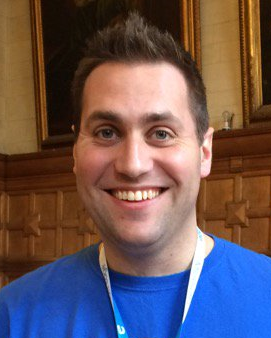
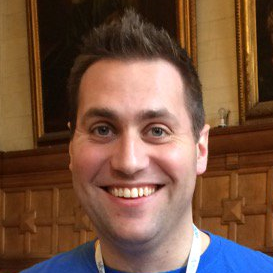
Added resources

diff --git a/MartinKMe/wwwroot/css/site.min.css b/MartinKMe/wwwroot/css/site.min.css
@@ -1,1 +1,1 @@
-body{padding-top:50px;font-family:Lato,sans-serif;font-size:14pt;background-color:#d3d3d3}a{color:#333;text-decoration:underline}a:hover{color:#ff8c00}table{font-size:1.5rem}.btn{border-radius:0;border:0}h4{font-size:16pt}.btn:focus,.btn:hover{background-color:#ff8c00;color:#fff}input,select,textarea{max-width:280px}@font-face{font-family:blackoutmidnight;src:url(fonts/blackout-midnight-webfont.eot);src:url(fonts/blackout-midnight-webfont.eot?#iefix)format('embedded-opentype'),url(fonts/blackout-midnight-webfont.woff2)format('woff2'),url(fonts/blackout-midnight-webfont.woff)format('woff'),url(fonts/blackout-midnight-webfont.ttf)format('truetype'),url(fonts/blackout-midnight-webfont.svg#blackoutmidnight)format('svg');font-weight:400;font-style:normal}.jumbotron{color:#FE940D;background:linear-gradient(rgba(0,0,0,.5),rgba(0,0,0,.5)),url(../images/banner-wide.jpg);background-position:center top;margin-bottom:0}.jumbotron h1{font-weight:900}.jumbotron p{font-weight:700;font-size:2rem}.jumbotron-speaking{background:linear-gradient(rgba(0,0,0,.5),rgba(0,0,0,.5)),url(../images/banner-speaking.jpg)}.navbar-inverse .navbar-nav>li>a:focus,.navbar-inverse .navbar-nav>li>a:hover{color:#ff8c00}.navbar-inverse .navbar-nav>li>a,.navbar>.container .navbar-brand,.navbar>.container-fluid .navbar-brand{text-decoration:none}#home-intro{font-size:18pt}.home-container{margin-top:0;padding-top:20px;padding-bottom:20px}#home-speaking-container{background-color:#3AEAC8}#home-resources-container{background-color:#00D4E7}#home-blog-container{background-color:#008E9A}footer{background-color:grey;margin-bottom:0;padding-top:30px;padding-bottom:50px}.footer-icon{margin-right:20px}.profile-photo{max-width:320px}
+body{padding-top:50px;font-family:Lato,sans-serif;font-size:14pt;background-color:#d3d3d3}a{color:#333;text-decoration:underline}a:hover{color:#ff8c00}.btn{border-radius:0;border:0}h4{font-size:16pt}.btn:focus,.btn:hover{background-color:#ff8c00;color:#fff}@font-face{font-family:blackoutmidnight;src:url(fonts/blackout-midnight-webfont.eot);src:url(fonts/blackout-midnight-webfont.eot?#iefix)format('embedded-opentype'),url(fonts/blackout-midnight-webfont.woff2)format('woff2'),url(fonts/blackout-midnight-webfont.woff)format('woff'),url(fonts/blackout-midnight-webfont.ttf)format('truetype'),url(fonts/blackout-midnight-webfont.svg#blackoutmidnight)format('svg');font-weight:400;font-style:normal}.jumbotron{color:#FE940D;background-image:linear-gradient(rgba(0,0,0,.9),rgba(0,0,0,.4)),url(../images/banner-home.jpg);background-position:center center;margin-bottom:0;background-size:cover;background-repeat:no-repeat}.jumbotron h1{font-weight:900}.jumbotron p{font-weight:700;font-size:2rem}.jumbotron-speaking{background-image:linear-gradient(rgba(0,0,0,.5),rgba(0,0,0,.1)),url(../images/banner-speaking.jpg)}.jumbotron-resources{background-image:linear-gradient(rgba(0,0,0,.9),rgba(0,0,0,.5)),url(../images/banner-resources.jpg)}.jumbotron-blog{background-image:linear-gradient(rgba(0,0,0,.7),rgba(0,0,0,.3)),url(../images/banner-blog.jpg)}.navbar-inverse .navbar-nav>li>a:focus,.navbar-inverse .navbar-nav>li>a:hover{color:#ff8c00}.navbar-inverse .navbar-nav>li>a,.navbar>.container .navbar-brand,.navbar>.container-fluid .navbar-brand{text-decoration:none}#home-intro{font-size:18pt}.container-fluid{margin-top:0;padding-top:20px;padding-bottom:20px}.green-background{background-color:#3AEAC8}.blue-background{background-color:#0DABFE}.lightblue-background{background-color:#00D4E7}.teal-background{background-color:#008E9A}.copper-background{background-color:#CB760A}.mustard-background{background-color:#CBA31F}.darkblue-background{background-color:#0074B1;color:#fff}footer{background-color:grey;margin-bottom:0;padding-top:30px;padding-bottom:50px}.footer-icon{margin-right:20px}.profile-photo{max-width:200px}

diff --git a/MartinKMe/wwwroot/css/site.css b/MartinKMe/wwwroot/css/site.css
@@ -10,13 +10,9 @@ a {
     text-decoration: underline;
 }
 
-a:hover {
-    color: darkorange;
-}
-
-table {
-    font-size:1.5rem;
-}
+    a:hover {
+        color: darkorange;
+    }
 
 .btn {
     border-radius: 0px;
@@ -32,21 +28,10 @@ h4 {
     color: white;
 }
 
-/* Set widths on the form inputs since otherwise they're 100% wide */
-input,
-select,
-textarea {
-    max-width: 280px;
-}
-
 @font-face {
     font-family: 'blackoutmidnight';
     src: url('fonts/blackout-midnight-webfont.eot');
-    src: url('fonts/blackout-midnight-webfont.eot?#iefix') format('embedded-opentype'),
-         url('fonts/blackout-midnight-webfont.woff2') format('woff2'),
-         url('fonts/blackout-midnight-webfont.woff') format('woff'),
-         url('fonts/blackout-midnight-webfont.ttf') format('truetype'),
-         url('fonts/blackout-midnight-webfont.svg#blackoutmidnight') format('svg');
+    src: url('fonts/blackout-midnight-webfont.eot?#iefix') format('embedded-opentype'), url('fonts/blackout-midnight-webfont.woff2') format('woff2'), url('fonts/blackout-midnight-webfont.woff') format('woff'), url('fonts/blackout-midnight-webfont.ttf') format('truetype'), url('fonts/blackout-midnight-webfont.svg#blackoutmidnight') format('svg');
     font-weight: normal;
     font-style: normal;
 }
@@ -54,13 +39,14 @@ textarea {
 
 .jumbotron {
     color: #FE940D;
-    background: linear-gradient(rgba(0, 0, 0, 0.5), rgba(0, 0, 0, 0.5)), url('../images/banner-wide.jpg');
-    background-position: center top;
+    background-image: linear-gradient(rgba(0, 0, 0, 0.9), rgba(0, 0, 0, 0.4)), url('../images/banner-home.jpg');
+    background-position: center center;
     margin-bottom: 0px;
+    background-size: cover;
+    background-repeat: no-repeat;
 }
 
     .jumbotron h1 {
-        /*font-family: 'Blackout Midnight', sans-serif;*/
         font-weight: 900;
     }
 
@@ -70,7 +56,15 @@ textarea {
     }
 
 .jumbotron-speaking {
-    background: linear-gradient(rgba(0, 0, 0, 0.5), rgba(0, 0, 0, 0.5)), url('../images/banner-speaking.jpg');
+    background-image: linear-gradient(rgba(0, 0, 0, 0.5), rgba(0, 0, 0, 0.1)), url('../images/banner-speaking.jpg');
+}
+
+.jumbotron-resources {
+    background-image: linear-gradient(rgba(0, 0, 0, 0.9), rgba(0, 0, 0, 0.5)), url('../images/banner-resources.jpg');
+}
+
+.jumbotron-blog {
+    background-image: linear-gradient(rgba(0, 0, 0, 0.7), rgba(0, 0, 0, 0.3)), url('../images/banner-blog.jpg');
 }
 
 .navbar-inverse .navbar-nav > li > a:focus, .navbar-inverse .navbar-nav > li > a:hover {
@@ -78,7 +72,7 @@ textarea {
 }
 
 .navbar > .container .navbar-brand, .navbar > .container-fluid .navbar-brand {
-        text-decoration: none;
+    text-decoration: none;
 }
 
 .navbar-inverse .navbar-nav > li > a {
@@ -89,39 +83,52 @@ textarea {
     font-size: 18pt;
 }
 
-.home-container {
+.container-fluid {
     margin-top: 0px;
     padding-top: 20px;
     padding-bottom: 20px;
 }
 
-#home-speaking-container {
+.green-background {
     background-color: #3AEAC8;
 }
 
-#home-resources-container {
+.blue-background {
+    background-color: #0DABFE;
+}
+
+.lightblue-background {
     background-color: #00D4E7;
 }
 
-#home-blog-container {
+.teal-background {
     background-color: #008E9A;
+}
+
+.copper-background {
+    background-color: #CB760A;
+}
+
+.mustard-background {
+    background-color: #CBA31F;
+}
+
+.darkblue-background {
+    background-color: #0074B1;
+    color: white;
 }
 
 footer {
     background-color: #808080;
-
     margin-bottom: 0px;
-
     padding-top: 30px;
     padding-bottom: 50px;
 }
 
-.footer-icon{
+.footer-icon {
     margin-right: 20px;
 }
 
 .profile-photo {
-    max-width: 320px;
+    max-width: 200px;
 }
-
-

diff --git a/MartinKMe/Controllers/HomeController.cs b/MartinKMe/Controllers/HomeController.cs
@@ -24,6 +24,11 @@ namespace MartinKMe.Controllers
             return View();
         }
 
+        public IActionResult Blog()
+        {
+            return View();
+        }
+
         public IActionResult Error()
         {
             return View();
